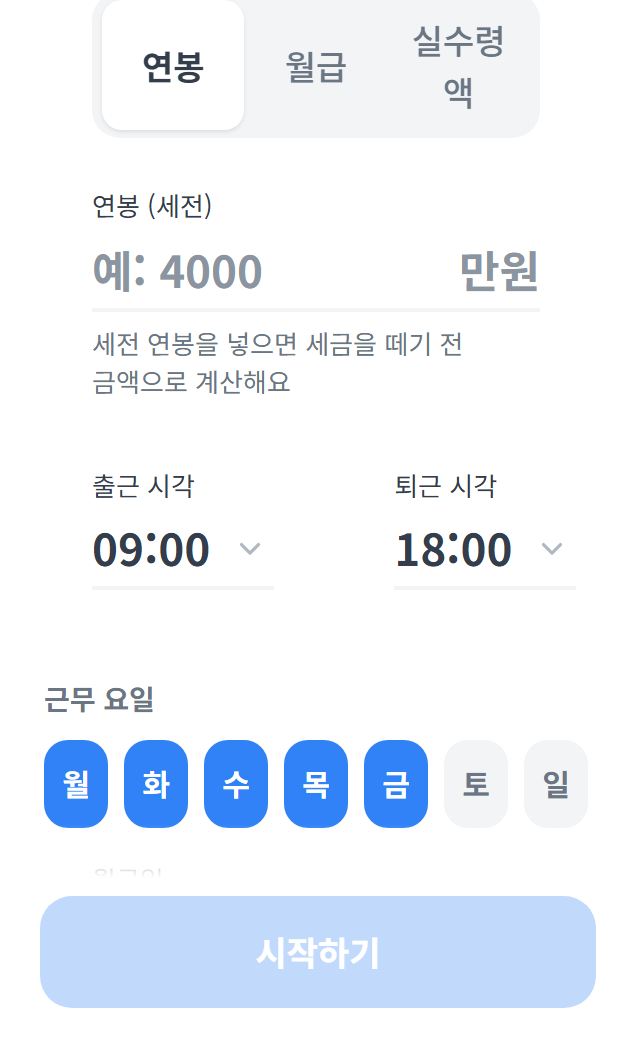
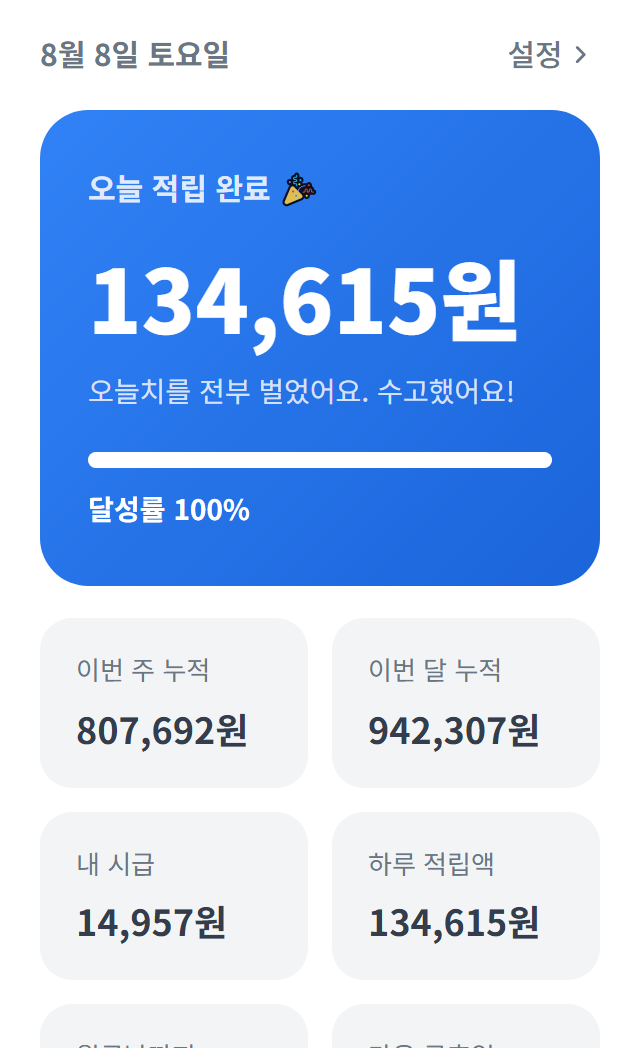
fix: 광고 SDK 예외로 메인 화면이 통째로 하얘지던 문제
GoogleAdMob.*.isSupported() 는 토스 밖에서 예외를 던지는데 감싸지 않아,
에러 경계가 없는 상태에서 메인 화면 전체가 내려갔어요. 실기기에서는 안
드러나지만 SDK 가 예상 못 한 오류를 내면 같은 일이 납니다.

- DetailStatsUnlock: 광고 지원 여부 확인을 try 로 감쌈
- interstitialAd: supported() 를 try 로 감쌈
- 스토어 스크린샷 추가 (636x1048)

diff --git a/src/components/DetailStatsUnlock.tsx b/src/components/DetailStatsUnlock.tsx
@@ -22,9 +22,18 @@ export function DetailStatsUnlock({ profile }: { profile: Profile }) {
   const [open, setOpen] = useState(false);
   const [pending, setPending] = useState(false);
 
-  const adSupported =
-    GoogleAdMob.loadAppsInTossAdMob.isSupported() &&
-    GoogleAdMob.showAppsInTossAdMob.isSupported();
+  // isSupported 는 토스 밖에서 예외를 던져요. 감싸지 않으면 이 컴포넌트가 속한
+  // 메인 화면이 통째로 하얗게 죽어요 (에러 경계가 없어요).
+  const adSupported = (() => {
+    try {
+      return (
+        GoogleAdMob.loadAppsInTossAdMob.isSupported() &&
+        GoogleAdMob.showAppsInTossAdMob.isSupported()
+      );
+    } catch {
+      return false;
+    }
+  })();
 
   const loadCleanup = useRef<(() => void) | null>(null);
 

diff --git a/src/lib/interstitialAd.ts b/src/lib/interstitialAd.ts
@@ -9,10 +9,16 @@ const INTERSTITIAL_AD_GROUP_ID = "ait.v2.live.cdf86e36ded348e9";
 const CAP_KEY = "salary-counter:interstitial-last";
 
 function supported(): boolean {
-  return (
-    GoogleAdMob.loadAppsInTossAdMob.isSupported() &&
-    GoogleAdMob.showAppsInTossAdMob.isSupported()
-  );
+  // isSupported 는 토스 밖에서 예외를 던져요. 감싸지 않으면 이 함수를 부른
+  // 화면이 통째로 하얗게 죽어요 (에러 경계가 없어요).
+  try {
+    return (
+      GoogleAdMob.loadAppsInTossAdMob.isSupported() &&
+      GoogleAdMob.showAppsInTossAdMob.isSupported()
+    );
+  } catch {
+    return false;
+  }
 }
 
 function todayKey(): string {
